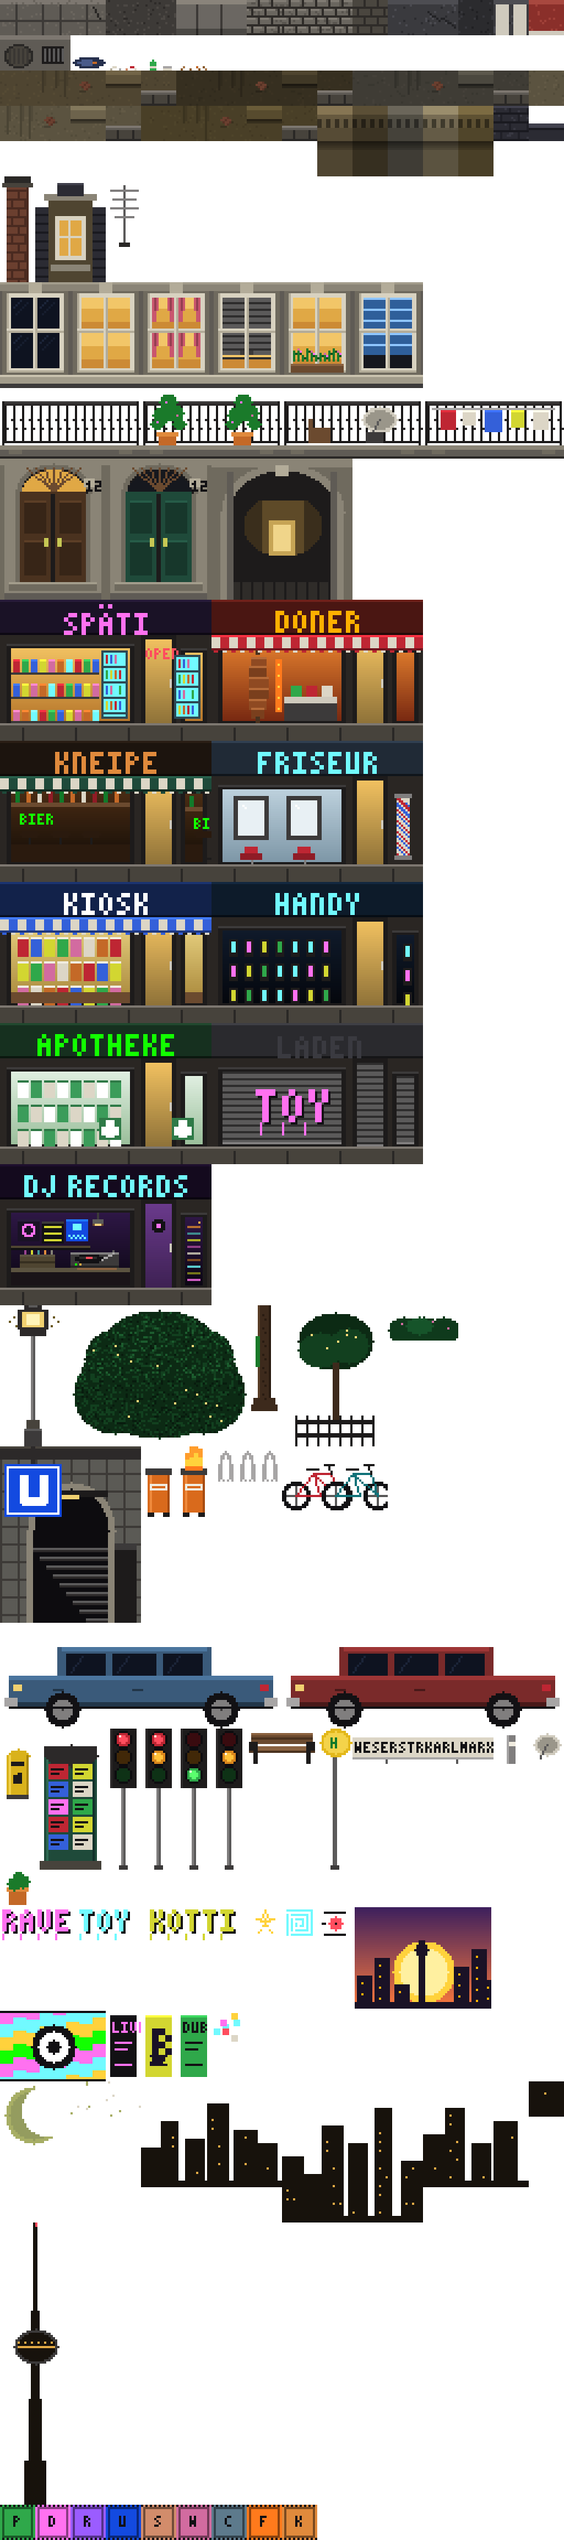
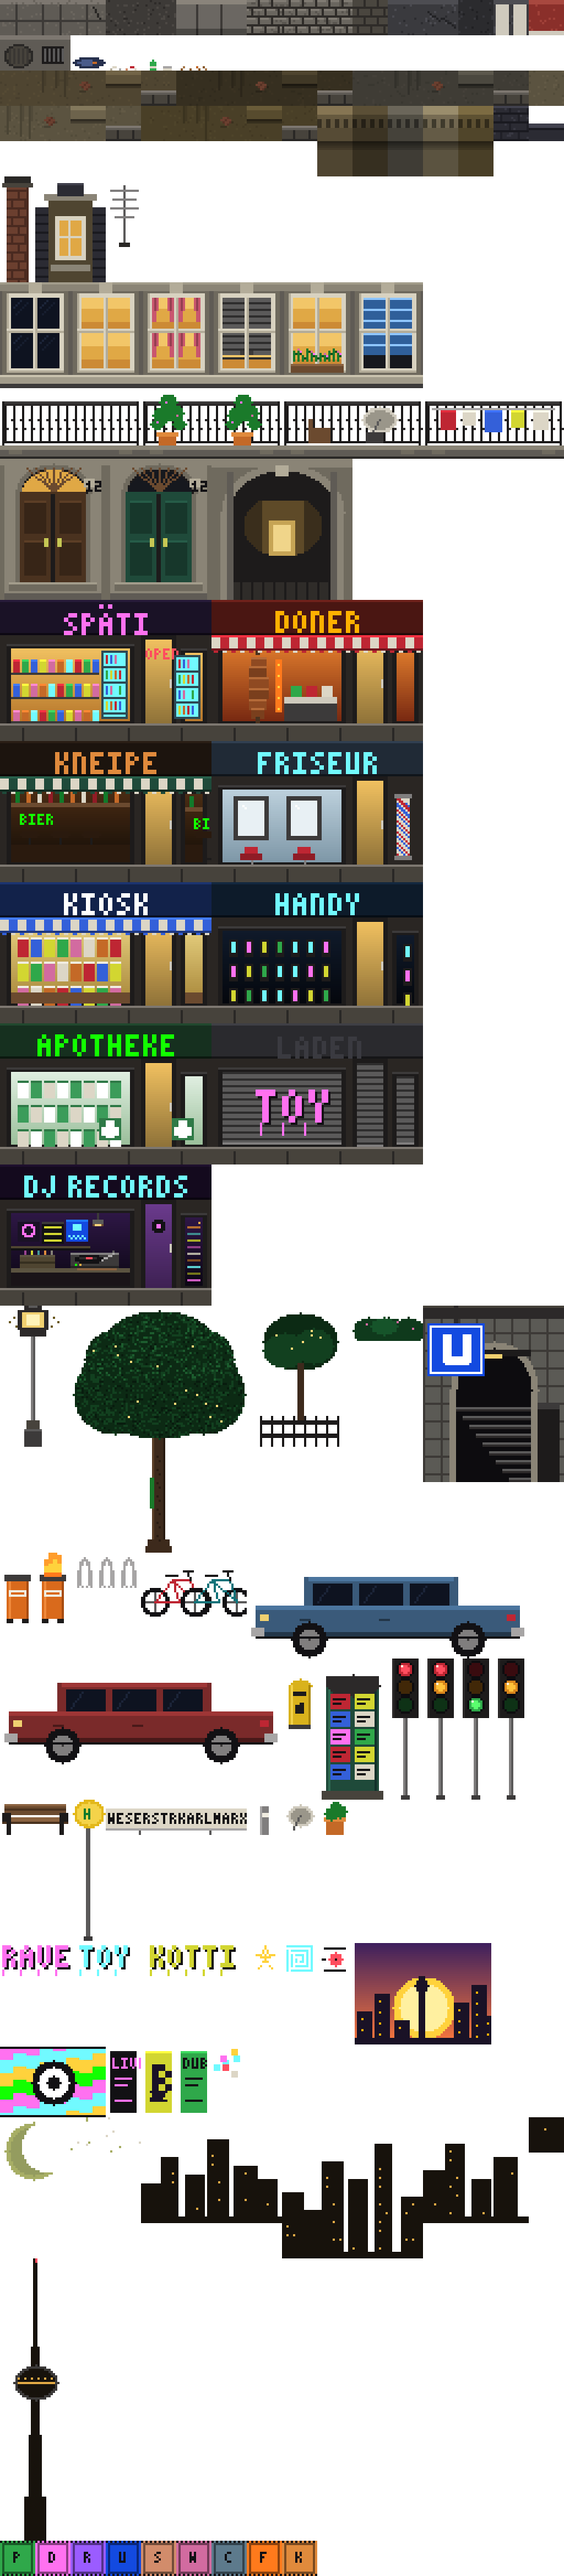
Draw each street tree as one block in the front layer, so the player walks behind trunk and crown

diff --git a/src/systems/tilelevel.ts b/src/systems/tilelevel.ts
@@ -4,7 +4,7 @@ import * as Phaser from 'phaser';
 // art/scripts/import_map.py. Layers keep the names they have in the editor:
 //   "far*"      scrolls at half speed (skyline, moon)
 //   "markers"   never drawn; each tile spawns something (player start, doors, NPCs...) where it stands
-//   "front*"    drawn over the player (tree crowns)
+//   "front*"    drawn over the player (trees)
 //   any layer with the `collider` property becomes solid
 // Everything else is drawn behind the player in the order it appears in the file.
 export interface Marker {

diff --git a/art/scripts/street_props.py b/art/scripts/street_props.py
@@ -20,8 +20,10 @@ def lamp(s):
 
 
 def tree(sheet):
+    """One 5x7 block: crown on top, trunk underneath. It goes in the `front` layer, so the player walks behind
+    the whole tree; the trunk starts inside the foliage so there is no gap between them."""
     rng = noise(44)
-    s = sheet.add('tree_crown', 5, 4)
+    s = sheet.add('tree', 5, 7)
     for cx, cy, rx, ry in ((40, 34, 36, 26), (20, 40, 19, 18), (60, 40, 19, 18), (40, 18, 26, 16), (22, 24, 16, 14), (58, 24, 16, 14)):
         s.ellipse(cx, cy, rx, ry, '#0c2a14')
     for (x, y), col in list(s.p.items()):
@@ -36,13 +38,22 @@ def tree(sheet):
         x, y = rng.randint(8, 72), rng.randint(14, 56)
         if (x, y) in s.p:
             s.set(x, y, '#ffd878')
-    s = sheet.add('tree_trunk', 1, 3)
-    s.rect(5, 0, 6, 48, '#3d2a1c')
-    s.vline(5, 0, 48, '#5a3f28'); s.vline(10, 0, 48, '#2a1c12')
-    s.rect(3, 42, 10, 6, '#3d2a1c'); s.rect(2, 45, 12, 3, '#3d2a1c')
+
+    crown = set(s.p)
+    X, T = 32, 64                                             # trunk tile: middle column, below the crown rows
+
+    def bark(x0, y0, w, h, col):
+        for y in range(y0, y0 + h):
+            for x in range(x0, x0 + w):
+                if (X + x, T + y) not in crown:
+                    s.set(X + x, T + y, col)
+
+    bark(5, -20, 6, 68, '#3d2a1c')
+    bark(5, -20, 1, 68, '#5a3f28'); bark(10, -20, 1, 68, '#2a1c12')
+    bark(3, 42, 10, 6, '#3d2a1c'); bark(2, 45, 12, 3, '#3d2a1c')
     for y in range(4, 44, 6):
-        s.set(7, y, '#2a1c12'); s.set(8, y + 2, '#2a1c12')
-    s.rect(4, 14, 2, 14, '#1a7a2a')                           # ivy
+        bark(7, y, 1, 1, '#2a1c12'); bark(8, y + 2, 1, 1, '#2a1c12')
+    bark(4, 14, 2, 14, '#1a7a2a')                             # ivy
     s = sheet.add('tree_small', 3, 4)
     s.ellipse(24, 16, 17, 13, '#0c2a14')
     s.ellipse(17, 20, 10, 8, '#12401f'); s.ellipse(30, 18, 9, 8, '#12401f')

diff --git a/art/scripts/build_street_map.py b/art/scripts/build_street_map.py
@@ -4,7 +4,7 @@ It is only a starting point: open art/tilesets/neukoelln_street.png in the Sprit
 build your own street with the layer names below, export, and run import_map.py to replace it.
 
 Layers, bottom to top:  far (scrolls at half speed) | buildings | details | ground (collider) | props |
-                        markers (hidden, spawns things) | front (drawn over the player, e.g. tree crowns)
+                        markers (hidden, spawns things) | front (drawn over the player, e.g. trees)
 Marker tiles (see the 'markers' section of the tileset): P player start, D door into the Späti,
 R door into the record shop, U U-Bahn entrance, S/W/C smoker/weirdo/cop, F fire bin, K cat. An entity stands on the bottom of its marker tile.
 """
@@ -139,12 +139,10 @@ def build():
     L.put('props', 'haltestelle', 78, 9)
     L.put('props', 'bench', 76, 12)
     # plaza
-    L.put('props', 'tree_trunk', 48, 10)
-    L.put('front', 'tree_crown', 46, 6)
+    L.put('front', 'tree', 46, 6)
     L.put('props', 'litfass', 50, 9)
     L.put('props', 'ubahn_entrance', 52, 8)
-    L.put('props', 'tree_trunk', 99, 10)
-    L.put('front', 'tree_crown', 97, 6)
+    L.put('front', 'tree', 97, 6)
 
     # ---------------------------------------------------------------- far
     L.layers['far']['data'] = [-1] * (W * H)

diff --git a/art/EDITOR.md b/art/EDITOR.md
@@ -25,9 +25,9 @@ Create these, bottom to top. Anything with the **collision** flag turned on beco
 | `buildings` | Plaster, windows, cornices, roofs, **shopfronts** and doors. |
 | `details` | Balconies, graffiti, posters, signs, dishes. |
 | `ground` | Pavement, curb, road. **Collision on.** The player walks on the top edge of the first row. |
-| `props` | Lamps, bins, bikes, benches, trees' trunks, the U-Bahn entrance, traffic lights. |
+| `props` | Lamps, bins, bikes, benches, the U-Bahn entrance, traffic lights. |
 | `markers` | Marker tiles (see below). Never drawn in the game. |
-| `front` | Drawn **over** the player: tree crowns. |
+| `front` | Drawn **over** the player: trees (the `tree` block is crown and trunk in one, so you walk behind all of it). |
 
 | U-Bahn layer | What goes in it |
 |---|---|
@@ -52,6 +52,7 @@ markers of the same kind merge into one wider zone.
 |---|---|---|
 | **P** start | where the player begins | same |
 | **D** door | enter the Späti | |
+| **R** djdoor | enter the record shop | |
 | **U** ubahn | go down into the station | |
 | **E** exit | | stairs up to the street |
 | **T** train | | where the train's nose stops |
@@ -77,7 +78,7 @@ markers of the same kind merge into one wider zone.
 ## Tips
 
 - Hidden layers aren't exported by the editor.
-- Only the Späti has an interior so far, so every **D** door leads there.
+- Every **D** door leads into the Späti and every **R** door into the record shop.
 - The train is not a tile: it drives in by itself (`marker T` says where it stops) and can be boarded at its doors.
 - Traffic lights animate by themselves: place any `ampel_*` frame (red, redamber, green, amber) and the street cycles
   every traffic light through red → red+amber → green → amber, all in step.
